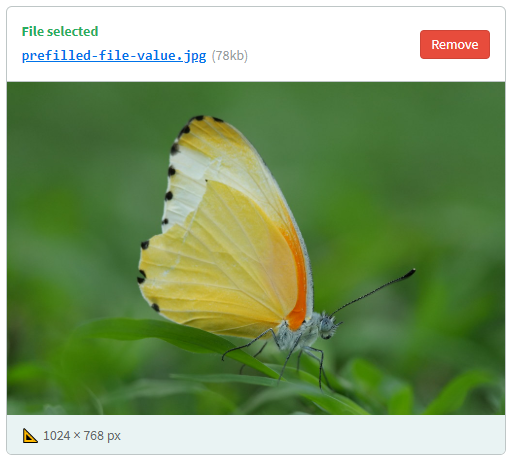
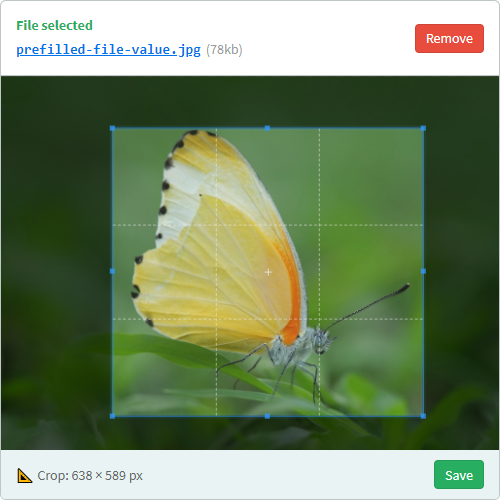
Cropper integration: Support auto re-upload from base64 / data URL

diff --git a/src/ui/UbField.js b/src/ui/UbField.js
@@ -332,9 +332,11 @@ export default class UbField {
     return false;
   }
 
-  _onDeleteClick(e) {
-    e.preventDefault();
-    e.stopPropagation();
+  _onDeleteClick(e = null) {
+    if (e) {
+      e.preventDefault();
+      e.stopPropagation();
+    }
 
     this._error = null;
 
@@ -464,13 +466,14 @@ export default class UbField {
     this._uploadProgress = 0;
     this._backField.value = "";
 
+    this.update();
+
     const url = this.config.target;
 
     let payload = new FormData();
     payload.append('file', file);
 
     let xhr = new XMLHttpRequest();
-
     xhr.open('POST', url, true);
     xhr.setRequestHeader('X-Requested-With', 'XMLHttpRequest');
 
@@ -497,7 +500,7 @@ export default class UbField {
               let asObject = JSON.parse(xhr.responseText);
 
               if (asObject && typeof asObject === "object") {
-                this._fileInfo = Object.assign({ }, {
+                this._fileInfo = Object.assign({}, {
                   name: this._fileInfo.name,
                   size: this._fileInfo.size,
                   url: this._fileInfo.url,
@@ -537,5 +540,57 @@ export default class UbField {
       }
     });
     xhr.send(payload);
+  }
+
+  // -------------------------------------------------------------------------------------------------------------------
+  // Upload utilities
+
+  /**
+   * Converts a data: URL to a file (e.g. for base 64 encoded images after cropping).
+   *
+   * @source https://uploadcare.com/community/t/how-to-upload-base64-encoded-image-from-javascript/53
+   *
+   * @param {string} dataUrl - The raw data: image URL.
+   * @param {string} filename - The "original" file name to assign to it.
+   * @returns {File}
+   */
+  static convertDataUrlToFile(dataUrl, filename) {
+    let arr = dataUrl.split(','),
+      mime = arr[0].match(/:(.*?);/)[1],
+      bstr = atob(arr[1]),
+      n = bstr.length,
+      u8arr = new Uint8Array(n);
+
+    while (n--) {
+      u8arr[n] = bstr.charCodeAt(n);
+    }
+
+    return new File([u8arr], filename, {type: mime});
+  }
+
+  /**
+   * Takes a data: blob URL, converts it to a file, and attempts to upload it.
+   * This action will replace any existing file input.
+   *
+   * @param dataUrl
+   * @param filename
+   */
+  uploadDataUrlAsFile(dataUrl, filename) {
+    const file = UbField.convertDataUrlToFile(dataUrl, filename);
+
+    if (file) {
+      // Clear the input, as if delete is pressed
+      this._onDeleteClick(null);
+
+      // Modify local state, add file info
+      console.log('[upload-buddy]', '(UbField)', 'Virtual file selection (from data URL):', file);
+
+      this._fileInfo = file;
+      this._fileInfo.uploaded = false;
+      this._fileInfo.url = dataUrl;
+
+      // Perform the upload
+      this._uploadFile(file);
+    }
   }
 }

diff --git a/src/extensions/UbImageExtension.js b/src/extensions/UbImageExtension.js
@@ -109,9 +109,12 @@ UbImageExtension.after = (field, fileInfo) => {
       e.preventDefault();
 
       if (imgDom.cropper) {
-        // Already cropping
+        // Already cropping, grab output
+        let newData = imgDom.cropper.getCroppedCanvas().toDataURL(fileInfo.type || 'image/png');
         imgDom.cropper.destroy();
-        field.update();
+
+        // ...and re-upload as if this is a new file, with old filename
+        field.uploadDataUrlAsFile(newData, fileInfo.name);
       } else {
         // Not yet cropping
         // Add "cropping" class to allow the preview to grow in height
@@ -137,12 +140,6 @@ UbImageExtension.after = (field, fileInfo) => {
       return false;
     });
   }
-};
-
-// ---------------------------------------------------------------------------------------------------------------------
-
-UbImageExtension.crop = (field, file, img) => {
-  alert(img.href);
 };
 
 // ---------------------------------------------------------------------------------------------------------------------
